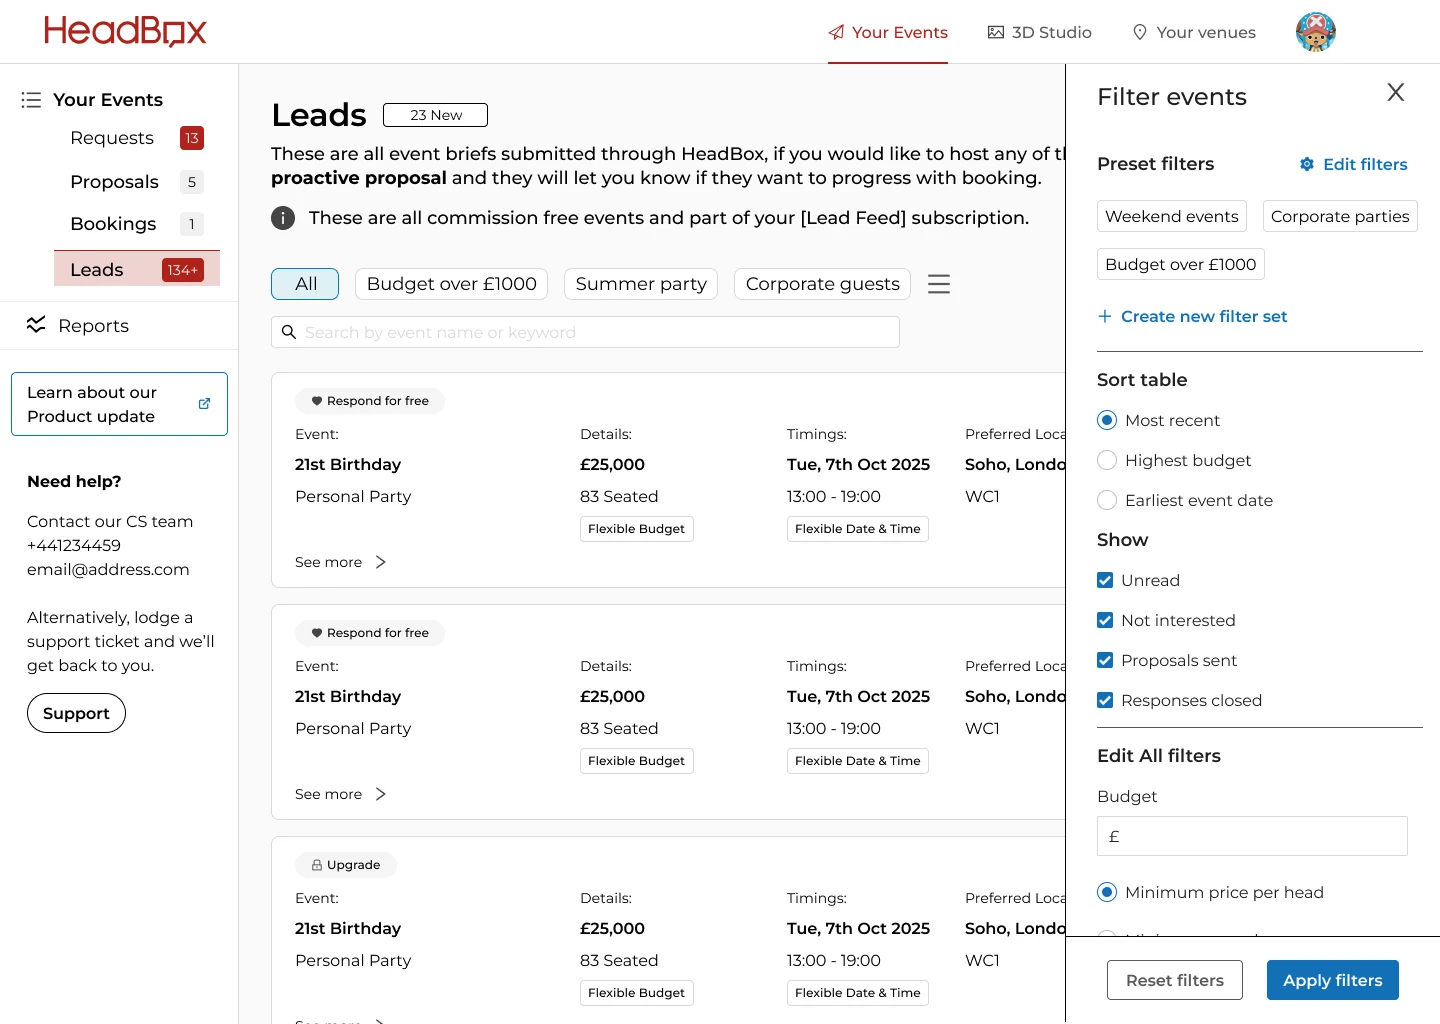
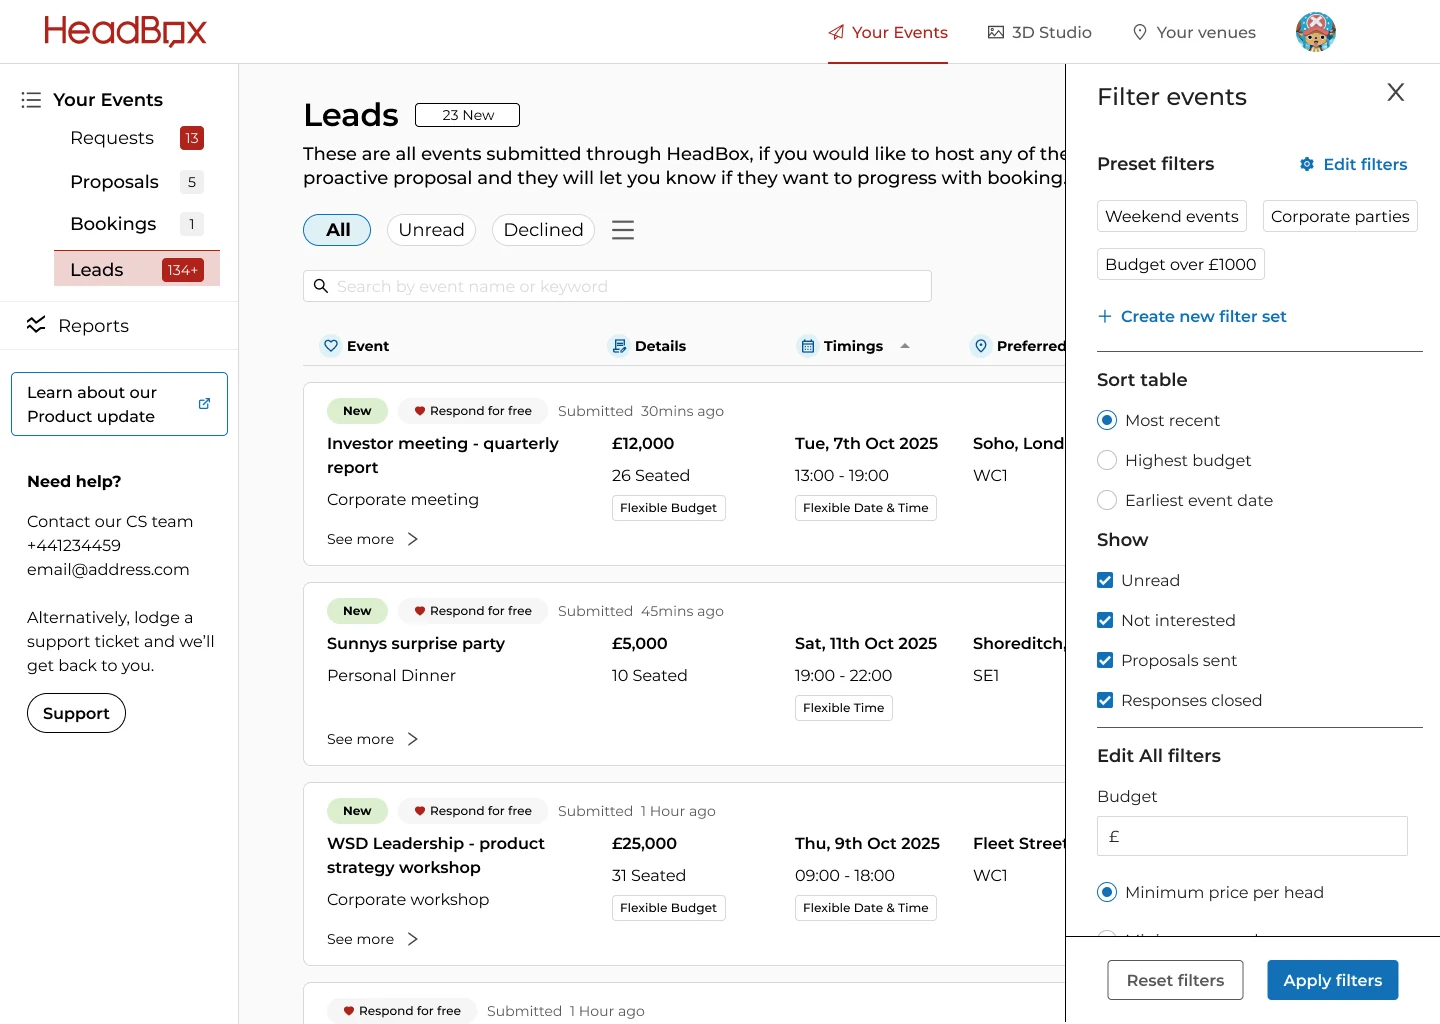
Replace the HostHQ 03 Filter events image and add a thin border
Claude-Session: https://claude.ai/code/session_01M3sQFEaxMFSCL1fvnxLDvQ

diff --git a/src/data/caseStudyPages.ts b/src/data/caseStudyPages.ts
@@ -43,7 +43,7 @@ export interface Section {
   figures?: string[] // several placeholder frames, one per selected screen
   image?: { src: string; alt: string; caption: string; width: number; height: number; bordered?: boolean } // a real screenshot
   planImage?: { src: string; alt: string; width: number; height: number; bordered?: boolean } // a full-width image under this section
-  planImage3?: { src: string; alt: string; caption: string; width: number; height: number } // a third, below the second
+  planImage3?: { src: string; alt: string; caption: string; width: number; height: number; bordered?: boolean } // a third, below the second
   planImage2?: { src: string; alt: string; caption: string; width: number; height: number } // a second one, below it
   plan?: 'parti' | 'flow' // the existing/proposed drawing (parti) or the TreeAssist two-lane flow, shown under this section
 }
@@ -287,6 +287,7 @@ export const caseStudyPages: Record<CaseStudyId, CaseStudyPage> = {
             'Filter events: tailored to what the venue is looking for, with notifications for events that match your venue space and availability.',
           width: 1440,
           height: 1024,
+          bordered: true,
         },
       },
       {

diff --git a/src/components/CaseStudy.tsx b/src/components/CaseStudy.tsx
@@ -247,7 +247,9 @@ export function CaseStudy({ id }: { id: CaseStudyId }) {
                   planFigure
                 ) : null}
                 {s.planImage3 && (
-                  <figure className="case__figure case__figure--image">
+                  <figure
+                    className={`case__figure case__figure--image${s.planImage3.bordered ? ' case__figure--bordered' : ''}`}
+                  >
                     <img
                       src={s.planImage3.src}
                       alt={s.planImage3.alt}
